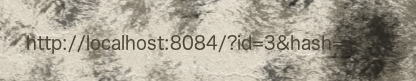
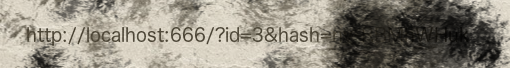
fix lockbox

diff --git a/2019/lockbox.html b/2019/lockbox.html
@@ -41,7 +41,7 @@
 		<h1>Docker</h1>
 		<p>
 			You will need to run the following command before you can play this challenge:<br><br>
-			<span class="inv">todo: publish docker image</span>
+			<span class="inv">docker run --rm -p 666:666 squarectf/lockbox</span>
 		</p>
 
 		<h1>Description</h1>
